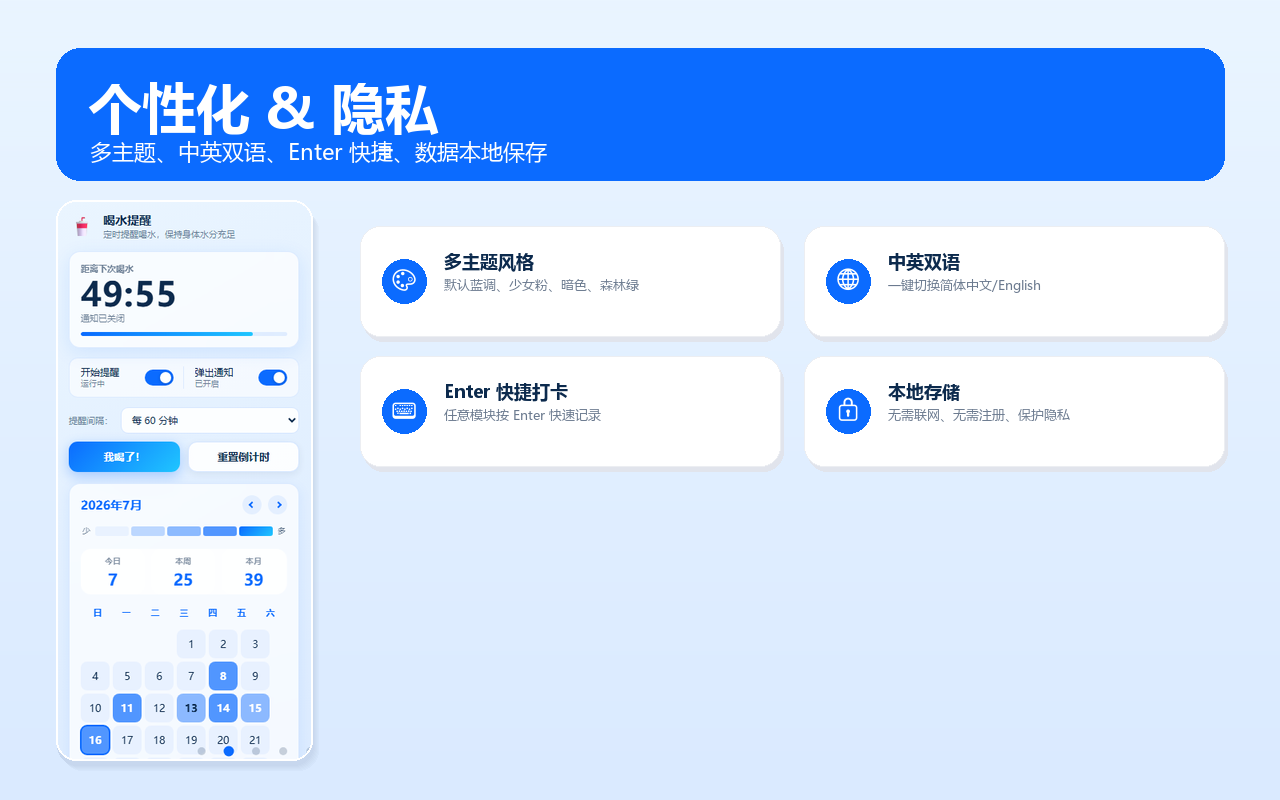
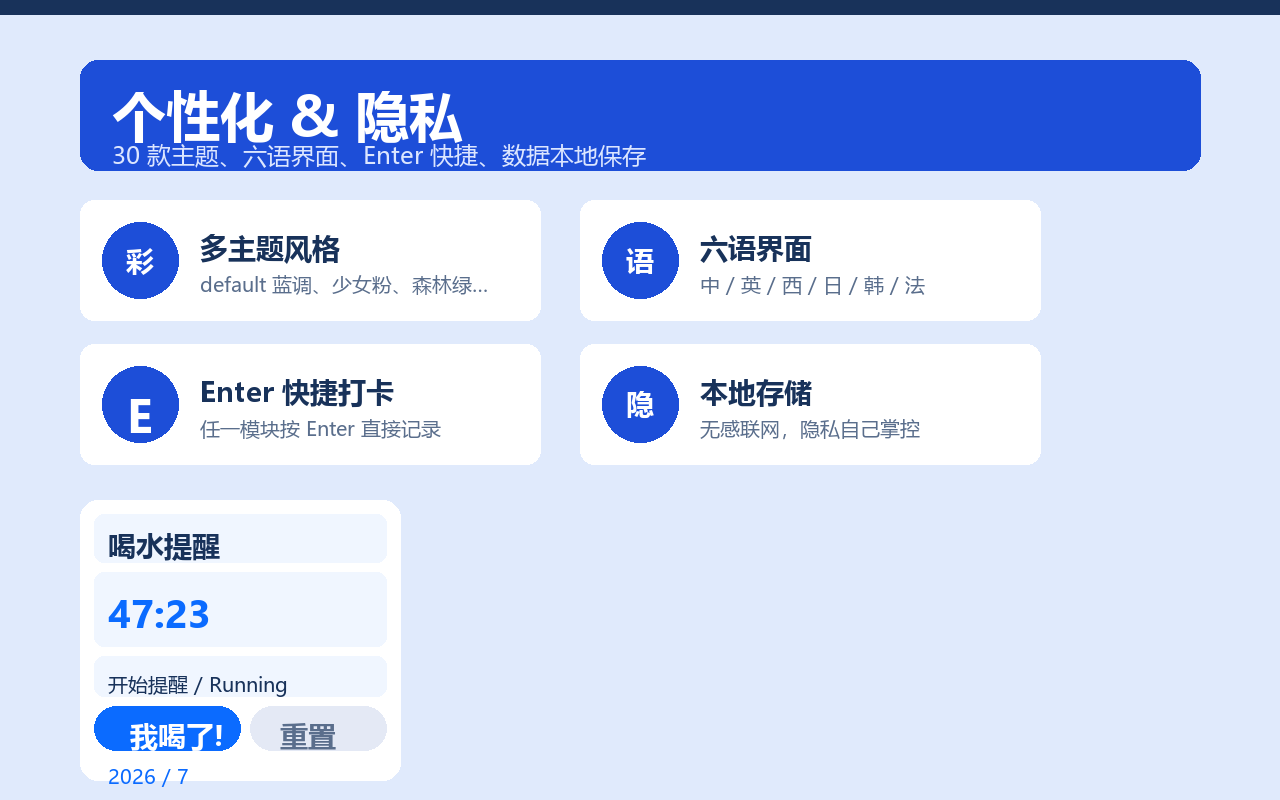
更新第 5 张商店截图文案以反映新版本
- 旧版文案已过期：「多主题、中英双语」（仅 4 主题 + 2 语），与 v3.5.0 实际不符
- 新文案：30 款主题、六语界面（中/英/西/日/韩/法）、Enter 快捷、数据本地保存
- 中文版 4 卡片：彩/语/E（Enter 快捷）/隐
- 英文版 4 卡片：T/L/E/P
- 底部 drink page 预览同步刷新
- 新增 scripts/generate_screenshot_05.py（项目内 PIL 生成器，可重跑）
- 产物：store-assets/screenshots/{zh,en}/screenshot-05-personalize.png（1280×800 RGB）

diff --git a/scripts/generate_screenshot_05.py b/scripts/generate_screenshot_05.py
@@ -1,0 +1,153 @@
+#!/usr/bin/env python3
+"""Regenerate store-assets screenshot-05-personalize.png (zh + en) using PIL.
+
+The original was a one-off HTML→PNG mockup. The copy inside was outdated
+(mentioned 4 themes and bilingual); this script re-renders a similar
+composition with the current state: 30 themes, 6 languages, Enter shortcut,
+local-only privacy.
+"""
+import os
+from PIL import Image, ImageDraw, ImageFont
+
+ROOT = os.path.dirname(os.path.dirname(os.path.abspath(__file__)))
+OUT_DIR = os.path.join(ROOT, "store-assets", "screenshots")
+
+W, H = 1280, 800
+NAVY = (24, 50, 90)
+BANNER = (29, 78, 216)         # primary blue
+BG = (224, 234, 252)           # light blue canvas
+CARD = (255, 255, 255)
+ICON_BG = (29, 78, 216)
+TEXT = (24, 50, 90)
+SUB = (90, 110, 140)
+ACCENT = (11, 107, 255)
+
+
+def find_font(size, bold=False, latin=False):
+    """Return a font path. latin=True prefers Arial for English/digit clarity."""
+    if latin:
+        cands = [r"C:\Windows\Fonts\segoeuib.ttf" if bold else r"C:\Windows\Fonts\segoeui.ttf",
+                 r"C:\Windows\Fonts\arialbd.ttf" if bold else r"C:\Windows\Fonts\arial.ttf",
+                 r"C:\Windows\Fonts\msyhbd.ttc" if bold else r"C:\Windows\Fonts\msyh.ttc"]
+    else:
+        cands = [r"C:\Windows\Fonts\msyhbd.ttc" if bold else r"C:\Windows\Fonts\msyh.ttc",
+                 r"C:\Windows\Fonts\segoeuib.ttf" if bold else r"C:\Windows\Fonts\segoeui.ttf"]
+    for c in cands:
+        if os.path.exists(c):
+            try:
+                return ImageFont.truetype(c, size)
+            except Exception:
+                continue
+    return ImageFont.load_default()
+
+
+def text_w(draw, s, font):
+    b = draw.textbbox((0, 0), s, font=font)
+    return b[2] - b[0], b[3] - b[1]
+
+
+def draw_text(draw, xy, s, font, fill):
+    draw.text(xy, s, font=font, fill=fill)
+
+
+def center_x(draw, s, font, cx, fill):
+    w, _ = text_w(draw, s, font)
+    draw.text((cx - w // 2, _[0] if False else xy[1]), s, font=font, fill=fill)
+
+
+# ---- per-language content ----
+CONTENT = {
+    "zh": {
+        "title": "个性化 & 隐私",
+        "subtitle": "30 款主题、六语界面、Enter 快捷、数据本地保存",
+        "cards": [
+            ("多主题风格", "default 蓝调、少女粉、森林绿…", "彩"),
+            ("六语界面", "中 / 英 / 西 / 日 / 韩 / 法", "语"),
+            ("Enter 快捷打卡", "任一模块按 Enter 直接记录", "E"),
+            ("本地存储", "无感联网，隐私自己掌控", "隐"),
+        ],
+    },
+    "en": {
+        "title": "Personalize & Privacy",
+        "subtitle": "30 themes, six languages, Enter shortcut, all data stays local",
+        "cards": [
+            ("Many Themes", "30 themes incl. dark & xmas", "T"),
+            ("Six Languages", "ZH / EN / ES / JA / KO / FR", "L"),
+            ("Enter Shortcut", "Press Enter to log in any module", "E"),
+            ("Local Storage", "No internet, your data stays put", "P"),
+        ],
+    },
+}
+
+
+def render(lang):
+    img = Image.new("RGB", (W, H), BG)
+    d = ImageDraw.Draw(img)
+
+    f_title = find_font(54, bold=True)
+    f_sub = find_font(24)
+    f_card_t = find_font(28, bold=True)
+    f_card_s = find_font(20)
+    f_latin = find_font(48, bold=True, latin=True)
+
+    # Top navy strip
+    d.rectangle([0, 0, W, 14], fill=NAVY)
+
+    # Banner (blue rounded)
+    bx, by, bw, bh = 80, 60, W - 160, 110
+    d.rounded_rectangle([bx, by, bx + bw, by + bh], radius=18, fill=BANNER)
+    draw_text(d, (bx + 32, by + 18), CONTENT[lang]["title"], f_title, (255, 255, 255))
+    draw_text(d, (bx + 32, by + 78), CONTENT[lang]["subtitle"], f_sub, (220, 230, 255))
+
+    # 2x2 cards
+    cw, ch = 460, 120
+    gx, gy = 80, 200
+    gap_x, gap_y = 40, 24
+    for i, (t, s, icon) in enumerate(CONTENT[lang]["cards"]):
+        row, col = divmod(i, 2)
+        x = gx + col * (cw + gap_x)
+        y = gy + row * (ch + gap_y)
+        d.rounded_rectangle([x, y, x + cw, y + ch], radius=14, fill=CARD)
+        d.ellipse([x + 22, y + 22, x + 22 + 76, y + 22 + 76], fill=ICON_BG)
+        # centered letter inside the circle (icon may be Chinese or Latin)
+        icon_font = f_card_t if any('\u4e00' <= ch <= '\u9fff' for ch in icon) else f_latin
+        iw, ih = text_w(d, icon, icon_font)
+        draw_text(d, (x + 22 + 38 - iw // 2, y + 22 + 38 - ih // 2 - 6), icon, icon_font, (255, 255, 255))
+        draw_text(d, (x + 120, y + 28), t, f_card_t, TEXT)
+        draw_text(d, (x + 120, y + 70), s, f_card_s, SUB)
+
+    # Drink page preview (left) — simple geometric mockup
+    px, py, pw, ph = 80, 500, 320, 280
+    d.rounded_rectangle([px, py, px + pw, py + ph], radius=18, fill=(255, 255, 255))
+    # header strip
+    d.rounded_rectangle([px + 14, py + 14, px + pw - 14, py + 62], radius=10, fill=(240, 246, 255))
+    draw_text(d, (px + 28, py + 26), "喝水提醒" if lang == "zh" else "Drink Reminder", f_card_t, TEXT)
+    # timer card
+    d.rounded_rectangle([px + 14, py + 72, px + pw - 14, py + 146], radius=10, fill=(240, 246, 255))
+    f_big = find_font(40, bold=True, latin=True)
+    draw_text(d, (px + 28, py + 84), "47:23", f_big, ACCENT)
+    # toggle row
+    d.rounded_rectangle([px + 14, py + 156, px + pw - 14, py + 196], radius=10, fill=(240, 246, 255))
+    draw_text(d, (px + 28, py + 170), "开始提醒 / Running" if lang == "zh" else "Timer / Running", f_card_s, TEXT)
+    # CTA + reset
+    d.rounded_rectangle([px + 14, py + 206, px + 160, py + 250], radius=22, fill=ACCENT)
+    draw_text(d, (px + 50, py + 216), "我喝了!" if lang == "zh" else "I drank!", f_card_t, (255, 255, 255))
+    d.rounded_rectangle([px + 170, py + 206, px + pw - 14, py + 250], radius=22, fill=(228, 233, 245))
+    draw_text(d, (px + 200, py + 216), "重置" if lang == "zh" else "Reset", f_card_t, SUB)
+    # mini calendar header
+    draw_text(d, (px + 28, py + 262), "2026 / 7" if lang == "zh" else "Jul 2026", f_card_s, ACCENT)
+    return img
+
+
+def main():
+    for lang in ("zh", "en"):
+        out = os.path.join(OUT_DIR, lang, "screenshot-05-personalize.png")
+        img = render(lang)
+        img.save(out, "PNG")
+        # ensure RGB / 1280x800
+        print("wrote", out, img.size, img.mode)
+    print("ALL DONE")
+
+
+if __name__ == "__main__":
+    main()
